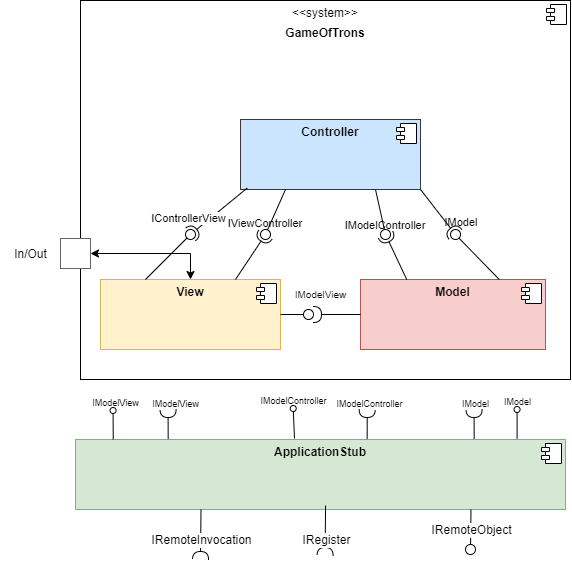
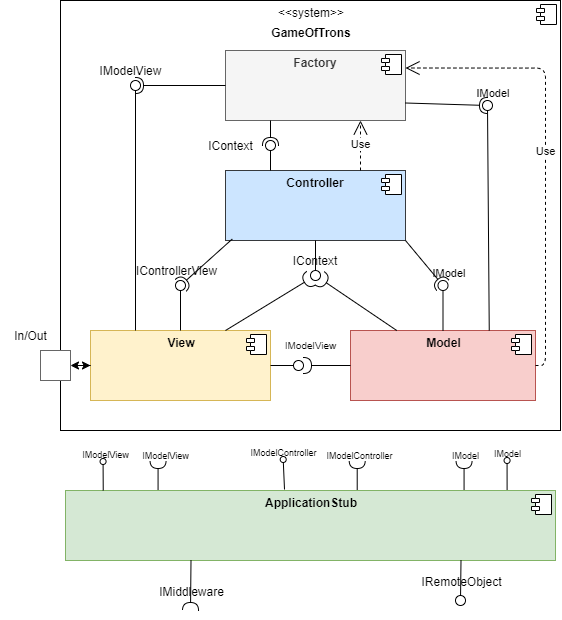
added factory component

diff --git a/src/main/java/de/hawh/beta3/application/game/factory/IModelControllerFactory.java b/src/main/java/de/hawh/beta3/application/game/factory/IModelControllerFactory.java
@@ -1,4 +1,4 @@
-package de.hawh.beta3.application.factory;
+package de.hawh.beta3.application.game.factory;
 
 import de.hawh.beta3.application.game.controller.IModelController;
 import de.hawh.beta3.application.stub.caller.IModelControllerCaller;

diff --git a/src/main/java/de/hawh/beta3/application/game/factory/IModelFactory.java b/src/main/java/de/hawh/beta3/application/game/factory/IModelFactory.java
@@ -1,4 +1,4 @@
-package de.hawh.beta3.application.factory;
+package de.hawh.beta3.application.game.factory;
 
 import de.hawh.beta3.application.game.model.gamemanager.GameManager;
 import de.hawh.beta3.application.game.model.gamemanager.IModel;

diff --git a/src/main/java/de/hawh/beta3/application/game/factory/IModelViewFactory.java b/src/main/java/de/hawh/beta3/application/game/factory/IModelViewFactory.java
@@ -1,4 +1,4 @@
-package de.hawh.beta3.application.factory;
+package de.hawh.beta3.application.game.factory;
 
 import de.hawh.beta3.application.game.view.IModelView;
 import de.hawh.beta3.application.stub.caller.IModelViewCaller;

diff --git a/src/main/java/de/hawh/beta3/application/game/factory/MVCFactory.java b/src/main/java/de/hawh/beta3/application/game/factory/MVCFactory.java
@@ -1,4 +1,4 @@
-package de.hawh.beta3.application.factory;
+package de.hawh.beta3.application.game.factory;
 
 public class MVCFactory {
 

diff --git a/Doku/Dokumentation_Tronspiel.md b/Doku/Dokumentation_Tronspiel.md
@@ -285,6 +285,20 @@ Der Controller bietet Funktionalitäten für die View v.a. zur Kommunikation mit
 | String handleDirectionKeyboardInput()| Der Nutzer tätigt  eine Tastatureingabe zur Steuerung seines Spielers. Zurückgegeben wird die für die Taste hinterlegte Richtung. Bei keiner Belegung wird eine Exception geworfen. |
 | void notifyCountdownOver() | Die View hat die Countdownanzeige abgeschlossen und benachrichtigt den Controller, dass der Countdown vorbei ist. Der Controller ruft die Methode startGame() des Models auf. |
 
+### Factory
+
+**Zweck/ Verantwortung**
+
+Die Komponente Factory bietet eine Factory nach außen an, um Caller-/ Realimplementierungsreferenzen zurückzugeben. Dabei wird das gewünschte Interface und ob remote gespielt wird übergeben.
+
+**Schnittstelle(n)**
+
+Die einzige von außen aufrufbare Klasse heißt MVCFactory, die in den Klassen genutzt werden kann.
+
+| Methode | Kurzbeschreibung |
+|-|-|
+| Object getInterface(String, boolean) | Es wird ein Objekt vom Interface im übergebenen String zurückgegeben. Wenn remote gespielt wird, ist der zweite Parameter true und das Caller Objekt wird zurückgegeben, sonst das der Realimplementierung |
+
 <a name="applicationstubblackblox"></a>
 ### Application Stub (Blackbox) 
 
@@ -315,11 +329,14 @@ Die Schnittstelle **IRemoteObject** bietet die Funktionalität zum Empfangen von
 ![View_Ebene2](./images/View_Ebene_2.png)
 
 
-### Whitbox Controller
+### Whitebox Controller
 
 ![Controller_WB2](./images/Controller_WB2.png)
 <br>
 
+### Whitebox Factory
+
+![Factory_Ebene2](images/Factory_Ebene2.png)
 
 ### Whitebox Application Stub
 
@@ -396,7 +413,23 @@ IConfig
 | --- | --- |
 | loadConfigParameters() | Liefert die für das Spiel relevanten Parameter aus der Config-Datei in einem Array. |   
 | loadDefaultPlayerCount() | Lädt den in der Config gespeicherten Defaultwert für die Spieleranzahl |   
-   
+
+### Whitebox Factory
+
+![Factory_Ebene3](images/Factory_Ebene3.png)
+
+*Öffentlich*:
+| Methode | Kurzbeschreibung|
+| --- | --- |
+| Object getInterface(String, boolean) | Es wird ein Objekt vom Interface im übergebenen String zurückgegeben. Wenn remote gespielt wird, ist der zweite Parameter true und das Caller Objekt wird zurückgegeben, sonst das der Realimplementierung |
+
+*Protected*:
+| Methode | Kurzbeschreibung|
+| --- | --- |
+| IModel getModel(boolean) | Gibt entweder ein Caller- oder Realimplementierungsobjekt, je nach boolean-Wert  |
+| IModelView getModelView(boolean) | Gibt entweder ein Caller- oder Realimplementierungsobjekt, je nach boolean-Wert  |
+| IContext getController(boolean) | Gibt entweder ein Caller- oder Realimplementierungsobjekt, je nach boolean-Wert  |
+
 ### Whitebox AppStub
    
 **Caller-Whitebox**
